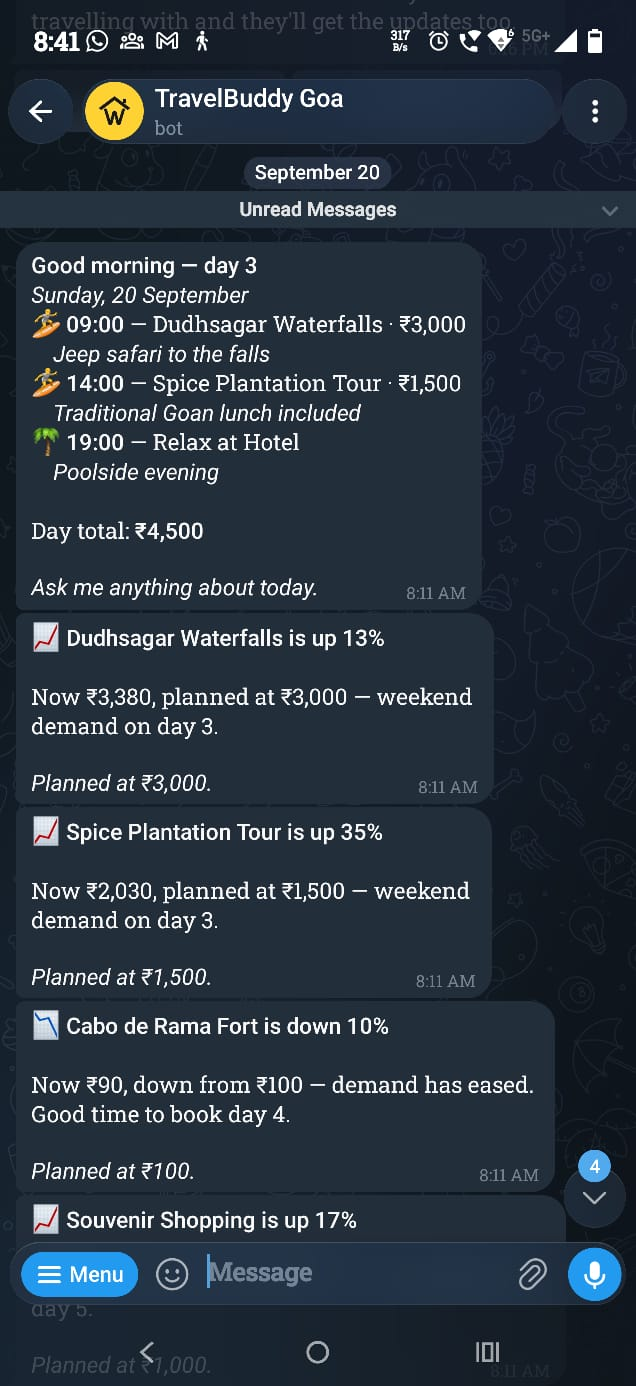
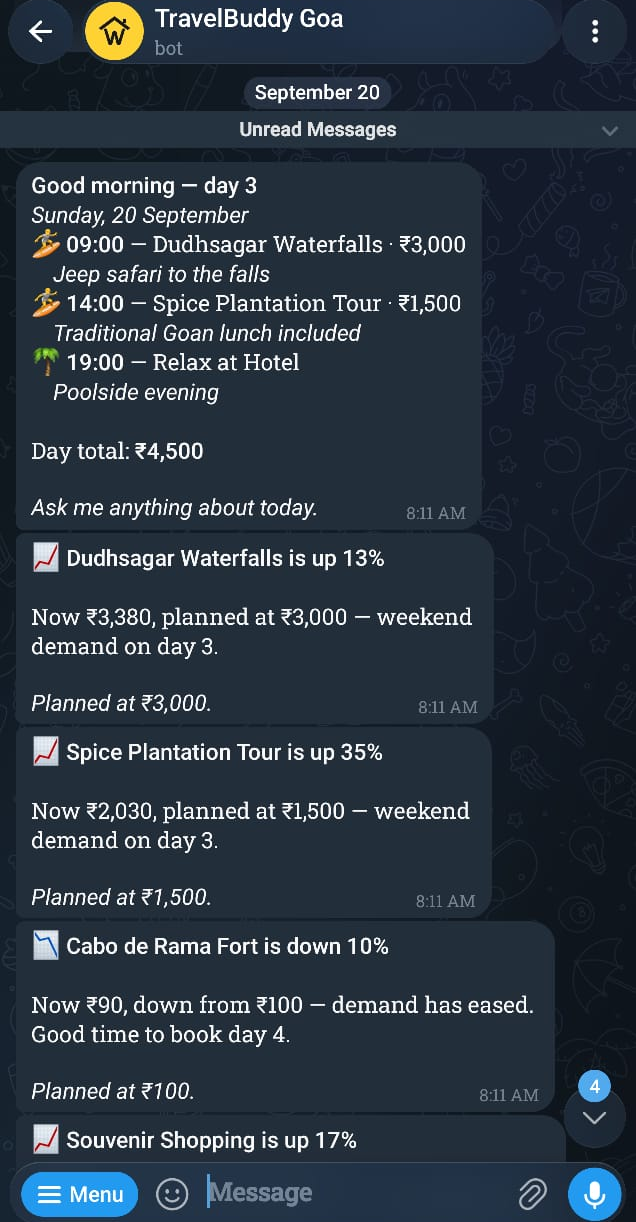
Shrink the phone screenshots and crop the Telegram capture
All four handset shots are about 1:2, and at width=100% of a half-width
column each one set the row height and left its paragraph stranded in
whitespace. They now render at 250px in a 34% column.

telegram.png also carried bleed-through text from a mid-scroll capture at
both edges; cropped to the chat itself, 1386px tall down to 1222.

diff --git a/README.md b/README.md
@@ -56,7 +56,7 @@ message away for the rest of the trip.
 
 <table>
 <tr>
-<td width="50%" valign="top">
+<td width="66%" valign="top">
 
 ### Swipe to be understood
 
@@ -68,16 +68,16 @@ You can also just **point your camera at a photo** you like; a vision model
 reads the scene and pre-seeds your preferences.
 
 </td>
-<td width="50%">
-<img src="docs/images/swipe.png" alt="Swipe preference cards" width="100%" />
+<td width="34%" align="center">
+<img src="docs/images/swipe.png" alt="Swipe preference cards" width="250" />
 </td>
 </tr>
 
 <tr>
-<td width="50%">
-<img src="docs/images/itinerary.png" alt="Generated itinerary" width="100%" />
+<td width="34%" align="center">
+<img src="docs/images/itinerary.png" alt="Generated itinerary" width="250" />
 </td>
-<td width="50%" valign="top">
+<td width="66%" valign="top">
 
 ### A plan you can argue with
 
@@ -91,7 +91,7 @@ Export the whole thing as a PDF to send to whoever isn't on the app.
 </tr>
 
 <tr>
-<td width="50%" valign="top">
+<td width="66%" valign="top">
 
 ### It books, and it earns
 
@@ -105,16 +105,16 @@ commission** on what the itinerary funnels into, and a "Partner economics"
 toggle on each stop shows the unit economics per booking.
 
 </td>
-<td width="50%">
-<img src="docs/images/booking.png" alt="Booking confirmed, with Travel Cash redeemable at partner venues" width="100%" />
+<td width="34%" align="center">
+<img src="docs/images/booking.png" alt="Booking confirmed, with Travel Cash redeemable at partner venues" width="250" />
 </td>
 </tr>
 
 <tr>
-<td width="50%">
-<img src="docs/images/telegram.png" alt="Telegram bot conversation" width="100%" />
+<td width="34%" align="center">
+<img src="docs/images/telegram.png" alt="Telegram bot conversation" width="250" />
 </td>
-<td width="50%" valign="top">
+<td width="66%" valign="top">
 
 ### Then it leaves the app
 
@@ -132,7 +132,7 @@ Share the link and your travel companions get the same bot, same plan.
 ### And it looks right in the dark
 
 <div align="center">
-<img src="docs/images/dark-mode.png" alt="Light and dark theme side by side" width="100%" />
+<img src="docs/images/dark-mode.png" alt="Light and dark theme side by side" width="720" />
 </div>
 
 Every surface is themed through design tokens, contrast-checked by
